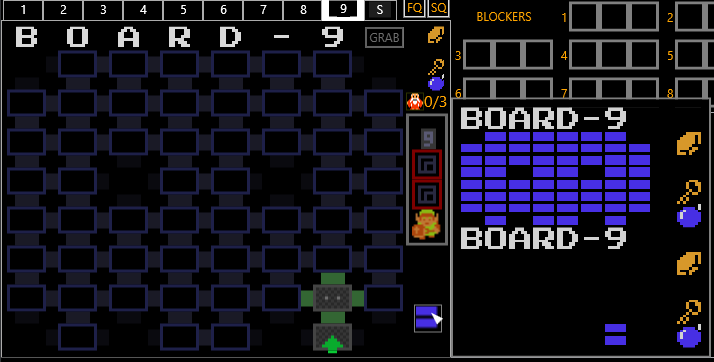
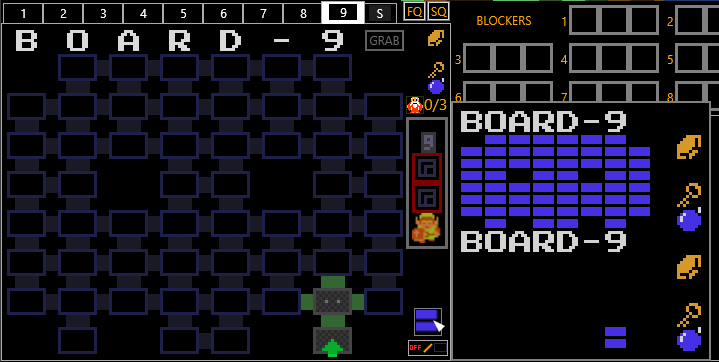
new drag-paint implementation

diff --git a/doc/use.md b/doc/use.md
@@ -326,6 +326,8 @@ self-describing.  (Pressing the button will create a template ShowRunCustom.txt 
 You can click the '**Save**' button to save all of the current tracker state; it will automatically be saved to a file with the current date and time in the filename.  Use 
 this e.g. when you need to stop playing now and want to continue playing the same seed tomorrow.
 
+---
+
 ## <a id="main-dt"></a> Dungeon Tracker
 
 There are 10 tabs - one for each of the 9 dungeons, and a summary tab 'S' which shows minimaps/previews of dungeons 1-8.
@@ -338,7 +340,7 @@ the top of the app.  Other dungeon tracking marks have no semantic meaning to th
 When your mouse is inside a dungeon map area, the location of that dungeon will be highlighted with crosshairs on the overworld map.  When your mouse is inside the dungeon 
 summary tab area, the location of all dungeons get a thick green highlight on the overworld map, to make it easy to see all dungeon locations at once.
 
-#### <a id="main-dt-doors"></a> Doors
+### <a id="main-dt-doors"></a> Dungeon Doors
 
 Doors between rooms are simple, and have five states:
 
@@ -353,66 +355,11 @@ Clicking a door with its existing-state-mouse-button (e.g. left-clicking a green
 There is an option in the [Options Menu](#main-om), off by default, to automatically infer some green doors.  (It will conservatively put a green door between rooms A and B 
 only if you just marked B, and B is not a transport stair, and A is the only adjacent room with a mark.)
 
-#### Rooms
-
-Dungeon rooms are somewhat complicated, as there is a lot of state you might want to track.  Read about them in [Dungeon Rooms section](#main-dr).
-
-#### Multiple rooms at once
-
-If you click-and-drag over the dungeon map with left mouse button, you can 'paint' a bunch of completed rooms by dragging over them.  
-Same with right mouse button, but for uncompleted rooms.
-These features can be useful when you play part of a dungeon without mapping it, but then later decide you need to map it--quickly 'paint' what you have done.
-Or if you enter a dungeon with a book-atlas-map, you might want to 'paint' the uncompleted dungeon rooms before starting.
-Mouse-hovering the little blue bars near the bottom right corner of the dungeon tab will popup a display that mimics the in-game mini-map.  This can make it
-easier to compare the rooms-you-have-painted to the actual in-game minimap, to spot any errors you may have made transcribing the map.  
-
-Finally, middle-click-drag paints off-the-map rooms, which can be the fastest way to paint the boundaries of dungeon 9 if you enter the dungeon with a map/atlas.
-If any off-the-map rooms are marked, the little-blue-bars hover also displays the 'inverse minimap' of just the rooms not marked off-the-map; see [below](#off-the-map).
-
-Sometimes you may mark up a bit of dungeon map, before noticing that (a portion of) your mapping is offset by a column.  You can click 'GRAB' in the corner 
-of the dungeon map to switch to 'grab mode', which allows you to pick up entire segments of dungeon rooms and doors and move them at once (cut & paste) to 
-fix an offset map.
-
-#### Vanilla dungeon maps
-
-Non-hidden dungeon numbers: FQ and SQ checkboxes will show First Quest or Second Quest outlines for that dungeon number.
-
-Hidden dungeon numbers: 'FQ/SQ' button pops up all the vanilla dungeon shape outlines for you to choose from, with hover previews, and hinting which ones 
-are compatible with your current room markup.
-
-![Vanilla map selection](screenshots/vanilla-dungeon-compatibility.png)
-
-#### <a id="main-hpdc"></a> Highlight potential dungeon continuations
-
-If you are having trouble finding all the rooms in a dungeon where you lack the map, and you want a visual reminder of what has yet to be checked, you can 
-mouse-hover the BLOCKERS label from the [Blockers](#main-blockers) section to display highlights that suggest what you still need to check.  This feature 
-is similar to (but distinct from) blockers, in that it is just based on your dungeon map markup.  In either the dungeon summary tab, or in a specific 
-dungeon tab, such as this:
-
-![Dungeon potential unhighlighted](screenshots/dungeon-potential-unhighlighted.png)
-
-when you mouse-hover BLOCKERS, the dungeon display adds highlights like this:
-
-![Dungeon potential highlighted](screenshots/dungeon-potential-highlighted.png)
-
-The display highlights a few things:
- 
- - walls that might be bombable and lead to a new room
- - rooms you have marked as bow/recorder/bomb blocked due to bosses (using MonsterDetail, described later in Dungeon Rooms)
- - any uncompleted Hungry Goriya Meat Block rooms
- - rooms where you have marked a doorway to them, but have not marked that you've been in the room (typically key-blocked or ladder-blocked)
-
-You might find this feature useful when you return to a dungeon with more bombs, trying to find a bomb wall, or e.g. when you just got the recorder and want 
-to check the summary tab to see which dungeons had rooms your marked with Digdoggers.
-
-(If you already have the map of the dungeon, but are still missing a way to get to certain rooms, then it might be more useful to mouse-hover the little blue 
-bars near the bottom right corner of the dungeon tab, and compare it with the in-game mini-map.)
-
-## <a id="main-dr"></a> Dungeon Rooms
+### <a id="main-dr"></a> Dungeon Rooms
 
 Dungeon rooms are somewhat complicated, as there is a lot of state you might want to track.  You might want to utilize only a subset of the dungeon room features.
 
-### Motivation
+#### Motivation
 
 To motivate Z-Tracker's feature set, consider a dungeon room with a Digdogger, a floor drop of a bomb pack, and a push-block leading to a staircase basement
 containing a key item like the Ladder.  Should this room be marked as a Digdogger room? A bomb pack room? An item staircase?  The salient information may change
@@ -439,7 +386,7 @@ As a result, in the scenario described before, you could mark up the room thusly
 
 How much of this detail you choose to track is up to you, and the interface makes it easy to ignore details you don't care about.
 
-### <a id="main-drpu"></a> Practical use
+#### <a id="main-drpu"></a> Practical use
 
 If all you care about it 'what rooms have I been in, and what rooms have I completed', then all you need is left-click:
  - left-click an unmarked room to mark it as the default-RoomType, as a completed room - completed rooms have a dark outline
@@ -479,16 +426,80 @@ the usual left-click behavior of toggling completedness.  This way you can immed
 zero extra mousing.
 
 <a id="off-the-map">There is one special RoomType, called OffTheMap</a>.  This RoomType is displayed as a big black box over the room area, effectively making a 'hole' in the 
-dungeon map.  The main scenario for using it is in e.g. Shapes 9 when you have an Atlas; when first entering the dungeon, rather than 'paint out' all the 
-on-the-minimap rooms, it would be faster to just 'mark off the holes'.  RoomType.OffTheMap appears as "OFF" in the room selection popup.  An example of 
-marking eight OffTheMap spots appears in this screenshot:
+dungeon map.  An example scenario for using it is in e.g. Shapes 9 when you have an Atlas; when first entering the dungeon, you can just 'mark off the holes'.  
+RoomType.OffTheMap appears as "OFF" in the room selection popup.  An example of marking eight OffTheMap spots appears in this screenshot:
 
 ![DungeonRoom.OffTheMap sample screenshot](screenshots/dungeon-room-off-the-map-example.png)
 
 Note how mouse-hovering the little blue bars displays both the minimap of the dungeon boundaries based on off-the-map marks (top) as well as just the rooms you have 
 marked/visited (bottom).
 
-#### <a id="main-dungeon-row-location"></a>Row location assistance
+### <a id="main-dr-drag"></a> Dragging across multiple rooms at once to 'paint' a map
+
+To facilitate drawing maps quickly, the dungeon tracker has click-and-drag functionality.  Imagine you walk into dungeon 9 and you have the Atlas or get a map in one of the 
+initial rooms and see this:
+
+![DungeonRoom.OffTheMap sample screenshot](screenshots/dt-drag-9-goal.png)
+
+Ideally you'd like your tracker to look something like this:
+
+![DungeonRoom.OffTheMap sample screenshot](screenshots/dt-drag-9-map-goal.png)
+
+but that means marking 21 OffTheMap spots on the tracker.  Right-clicking each tile and going through the popup menu would take way too long, and even if you have a HotKey for OffTheMap, 
+it is still a bit tedious to hover all those rooms and press the key.  'Paint'ing to the rescue!  You can 'paint' a bunch of OffTheMap rooms at once by right-clicking a room and then 
+holding the right mouse button down as you drag across multiple rooms on the map.  So, for example, it is easy to paint the 14 OffTheMap rooms on the right edge of the screenshot above
+using one fluid motion.  Then HotKeys can be used to mark off the remaining 'holes'.
+
+While that strategy works well for dungeon 9, for smaller dungeons it would be more efficient to paint just what's "on the map" rather than off it.  Suppose you get three rooms into
+dungeon 1 and find this map:
+
+![DungeonRoom.OffTheMap sample screenshot](screenshots/dt-drag-1-goal.png)
+
+and you want to eventually get to here
+
+![DungeonRoom.OffTheMap sample screenshot](screenshots/dt-drag-1-map-goal.png)
+
+starting from here
+
+![DungeonRoom.OffTheMap sample screenshot](screenshots/dt-drag-1-map-step1.png)
+
+There is a button in the bottom right of the dungeon tracker that swaps OffTheMap and Unmarked rooms, and also swaps the right-click-drag behavior.  If you first click that button, 
+the map changes to this:
+
+![DungeonRoom.OffTheMap sample screenshot](screenshots/dt-drag-1-map-step2.png)
+
+You can then right-click-drag to "paint" rooms back onto the map as Unmarked.  While you are dragging, a grid pops up to make it easier to see where you are painting:
+
+![DungeonRoom.OffTheMap sample screenshot](screenshots/dt-drag-1-map-step3.png)
+
+Once you think you're done painting all the rooms, you can mouse hover the blue bars near the bottom right corner of the tracker and compare the map you have painted to the
+in-game mini-map as a double-check.
+
+![DungeonRoom.OffTheMap sample screenshot](screenshots/dt-drag-1-map-step4.png)
+
+Thus right-click-drag can be used to mark OffTheMap spots; or, after toggling most of the map OffTheMap with the corner button, right-click-drag can paint Unmarked rooms back onto the map.
+This enables quickly painting dungeon maps, both large and small.
+
+In addition to right-click-drag behavior, left-click-drag paints completed rooms, and middle-click-drag (or shift-left-click-drag) paints uncompleted rooms.  Here's a short example of 
+dragging across rows using the left-, middle-, and right-mouse buttons, on a fresh dungeon map:
+
+![DungeonRoom.OffTheMap sample screenshot](screenshots/dt-drag-buttons.png)
+
+Sometimes you may mark up a bit of dungeon map, before noticing that (a portion of) your mapping is offset by a column.  You can click 'GRAB' in the corner 
+of the dungeon map to switch to 'grab mode', which allows you to pick up entire segments of dungeon rooms and doors and move them at once (cut & paste) to 
+fix an offset map.
+
+### Vanilla dungeon maps
+
+Non-hidden dungeon numbers: FQ and SQ checkboxes will show First Quest or Second Quest outlines for that dungeon number.
+
+Hidden dungeon numbers: 'FQ/SQ' button pops up all the vanilla dungeon shape outlines for you to choose from, with hover previews, and hinting which ones 
+are compatible with your current room markup.
+
+![Vanilla map selection](screenshots/vanilla-dungeon-compatibility.png)
+
+
+### <a id="main-dungeon-row-location"></a>Row location assistance
 
 While it is relatively easy to see what column of the dungeon you are in, by witnessing what letter (of e.g. "LEVEL-1") the player marker is under on the in-game minimap:
 
@@ -505,14 +516,14 @@ In that screenshot, the mouse is over a room in the 5th row, so the highlight ap
 
 (The corresponding column letter also gets a subtle highlight when a dungeon room is moused over--see the second 'L' of LEVEL-1 in the screenshot.)
 
-#### <a id="main-dungeon-old-man-count"></a>Old Man Count
+### <a id="main-dungeon-old-man-count"></a>Old Man Count
 
 Each dungeon has a fixed number of expected encounters with 'old men' (NPCs who give hints, offer bomb upgrades, mug you, or want meat).  The number of such rooms you 
 have marked, along with the expected count for this dungeon, is displayed in the sidebar:
 
 ![z-tracker old man count screenshot](screenshots/old-man-count.png)
 
-#### <a id="main-dungeon-special-rooms"></a>Special NPC rooms
+### <a id="main-dungeon-special-rooms"></a>Special NPC rooms
 
 Two room types have colorful extra visual information in the tracker:
 
@@ -535,6 +546,34 @@ Additionally, if a **Hungry Goriya (meat block)** room is marked in a dungeon, t
 marked completed:
 
 ![Bait block rooms](screenshots/bait-block-rooms.png)
+
+### <a id="main-hpdc"></a> Highlight potential dungeon continuations
+
+If you are having trouble finding all the rooms in a dungeon where you lack the map, and you want a visual reminder of what has yet to be checked, you can 
+mouse-hover the BLOCKERS label from the [Blockers](#main-blockers) section to display highlights that suggest what you still need to check.  This feature 
+is similar to (but distinct from) blockers, in that it is just based on your dungeon map markup.  In either the dungeon summary tab, or in a specific 
+dungeon tab, such as this:
+
+![Dungeon potential unhighlighted](screenshots/dungeon-potential-unhighlighted.png)
+
+when you mouse-hover BLOCKERS, the dungeon display adds highlights like this:
+
+![Dungeon potential highlighted](screenshots/dungeon-potential-highlighted.png)
+
+The display highlights a few things:
+ 
+ - walls that might be bombable and lead to a new room
+ - rooms you have marked as bow/recorder/bomb blocked due to bosses (using MonsterDetail, described later in Dungeon Rooms)
+ - any uncompleted Hungry Goriya Meat Block rooms
+ - rooms where you have marked a doorway to them, but have not marked that you've been in the room (typically key-blocked or ladder-blocked)
+
+You might find this feature useful when you return to a dungeon with more bombs, trying to find a bomb wall, or e.g. when you just got the recorder and want 
+to check the summary tab to see which dungeons had rooms your marked with Digdoggers.
+
+(If you already have the map of the dungeon, but are still missing a way to get to certain rooms, then it might be more useful to mouse-hover the little blue 
+bars near the bottom right corner of the dungeon tab, and compare it with the in-game mini-map.)
+
+---
 
 ## <a id="main-blockers"></a> Blockers
 

diff --git a/doc/whats-new.md b/doc/whats-new.md
@@ -133,6 +133,7 @@ Furthermore, you can now bind any keyboard keys (not just 0-9/A-Z).  See [HotKey
  - fixed: dungeon summary tab no longer sometime shows stale/missing info
  - fixed: fewer reminders to "consider dungeon X" when you're already inside dungeon X right now
  - fixed: clicking FQ or SQ on the dungeon summary tab (in non-hidden-dungeon-numbers) toggles all dungeons consistently into that vanilla map display
+ - fixed: issues with image crispness in Broadcast Window
  - you can now mark up to 3 Blockers per dungeon
  - hovering certain blockers (bait/key/bomb/bow&arrow) will highlight the corresponding marked shops on the overworld map
  - hovering to highlight shops can animate tiles to make them easier to see (OptionsMenu: "Animate Shop Highlights", on by default)
@@ -150,7 +151,7 @@ Furthermore, you can now bind any keyboard keys (not just 0-9/A-Z).  See [HotKey
  - there's now reminders for Door Repair Count on the Options Menu
  - you can now choose to hide certain overworld icons you don't want to see (Options Menu\Overworld\More settings)
  - when you reset the timer, you immediately get put into the 'place the start spot location icon' popup to mark your start screen
- - you can now middle-click-drag across multiple dungeon rooms to mark them as 'off the map' spots
+ - new dungeon map drag-painting implementation, see [full documentation](use.md#main-dr-drag) for details
  - Show/Run Custom button now can 'RUN' URLs, which get launched in your default browser
  - you can have tracker snoop for window (e.g. emulator window) whose title contains seed & flags, and display/save that info
  - reconfigured top right area of tracker to improve Broadcast Window view while in dungeons
